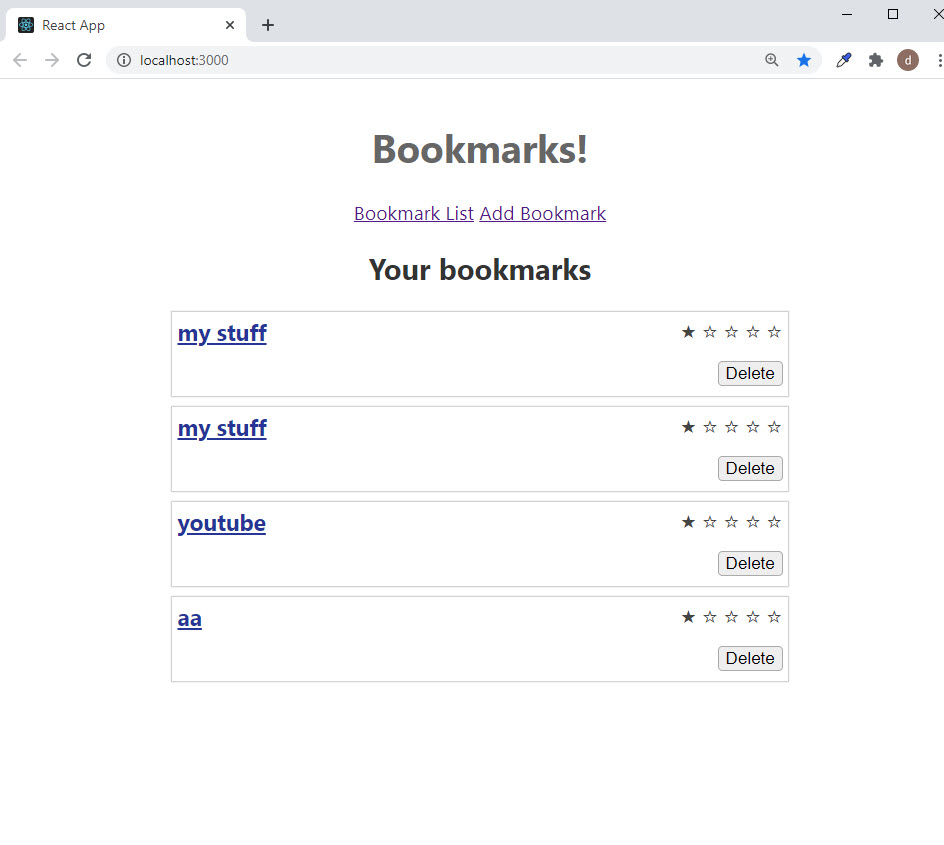
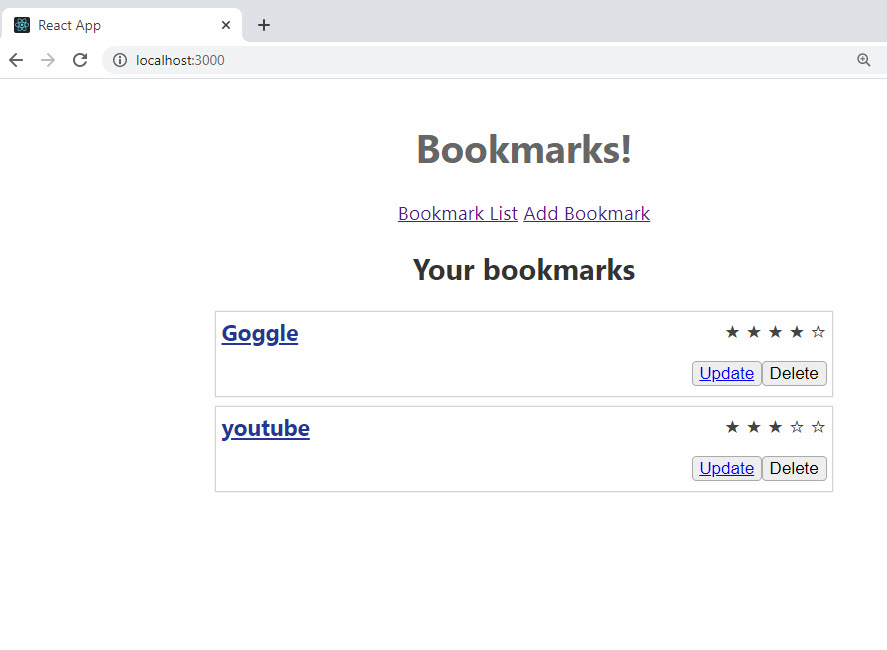
added edit bookmark  page with /api/edit endpoints

diff --git a/src/EditBookmark/EditBookmark.js b/src/EditBookmark/EditBookmark.js
@@ -1,0 +1,210 @@
+import React, { Component } from 'react';
+import PropTypes from 'prop-types';
+import BookmarksContext from '../BookmarksContext';
+import config from '../config'
+import './EditBookmark.css';
+
+const Required = () => (
+  <span className='EditBookmark__required'>*</span>
+)
+
+class EditBookmark extends Component {
+  static propTypes = {
+    match: PropTypes.shape({
+      params: PropTypes.object,
+    }),
+    history: PropTypes.shape({
+      push: PropTypes.func,
+    }).isRequired,
+  };
+
+  static contextType = BookmarksContext;
+
+  state = {
+    error: null,
+    id: '',
+    title: '',
+    url: '',
+    description: '',
+    rating: 1,
+  };
+
+  componentDidMount() {
+    const { bookmarkId } = this.props.match.params
+    fetch(config.API_ENDPOINT + `/${bookmarkId}`, {
+      method: 'GET',
+      headers: {
+        'authorization': `Bearer ${config.API_KEY}`
+      }
+    })
+      .then(res => {
+        if (!res.ok)
+          return res.json().then(error => Promise.reject(error))
+
+        return res.json()
+      })
+      .then(responseData => {
+        this.setState({
+          id: responseData.id,
+          title: responseData.title,
+          url: responseData.url,
+          description: responseData.description,
+          rating: responseData.rating,
+        })
+      })
+      .catch(error => {
+        console.error(error)
+        this.setState({ error })
+      })
+  }
+
+  handleChangeTitle = e => {
+    this.setState({ title: e.target.value })
+  };
+
+  handleChangeUrl = e => {
+    this.setState({ url: e.target.value })
+  };
+
+  handleChangeDescription = e => {
+    this.setState({ description: e.target.value })
+  };
+
+  handleChangeRating = e => {
+    this.setState({ rating: e.target.value })
+  };
+
+  handleSubmit = e => {
+    e.preventDefault()
+    const { bookmarkId } = this.props.match.params
+    const { id, title, url, description, rating } = this.state
+    const newBookmark = { id, title, url, description, rating }
+    fetch(config.API_ENDPOINT + `/${bookmarkId}`, {
+      method: 'PATCH',
+      body: JSON.stringify(newBookmark),
+      headers: {
+        'content-type': 'application/json',
+        'authorization': `Bearer ${config.API_KEY}`
+      },
+    })
+      .then(res => {
+        if (!res.ok)
+          return res.json().then(error => Promise.reject(error))
+      })
+      .then(() => {
+        this.resetFields(newBookmark)
+        this.context.updateBookmark(newBookmark)
+        this.props.history.push('/')
+      })
+      .catch(error => {
+        console.error(error)
+        this.setState({ error })
+      })
+  }
+
+  resetFields = (newFields) => {
+    this.setState({
+      id: newFields.id || '',
+      title: newFields.title || '',
+      url: newFields.url || '',
+      description: newFields.description || '',
+      rating: newFields.rating || '',
+    })
+  }
+
+  handleClickCancel = () => {
+    this.props.history.push('/')
+  };
+
+  render() {
+    const { error, title, url, description, rating } = this.state
+    return (
+      <section className='EditBookmark'>
+        <h2>Edit bookmark</h2>
+        <form
+          className='EditBookmark__form'
+          onSubmit={this.handleSubmit}
+        >
+          <div className='EditBookmark__error' role='alert'>
+            {error && <p>{error.message}</p>}
+          </div>
+          <input
+            type='hidden'
+            name='id'
+          />
+          <div>
+            <label htmlFor='title'>
+              Title
+              {' '}
+              <Required />
+            </label>
+            <input
+              type='text'
+              name='title'
+              id='title'
+              placeholder='Great website!'
+              required
+              value={title}
+              onChange={this.handleChangeTitle}
+            />
+          </div>
+          <div>
+            <label htmlFor='url'>
+              URL
+              {' '}
+              <Required />
+            </label>
+            <input
+              type='url'
+              name='url'
+              id='url'
+              placeholder='https://www.great-website.com/'
+              required
+              value={url}
+              onChange={this.handleChangeUrl}
+            />
+          </div>
+          <div>
+            <label htmlFor='description'>
+              Description
+            </label>
+            <textarea
+              name='description'
+              id='description'
+              value={description}
+              onChange={this.handleChangeDescription}
+            />
+          </div>
+          <div>
+            <label htmlFor='rating'>
+              Rating
+              {' '}
+              <Required />
+            </label>
+            <input
+              type='number'
+              name='rating'
+              id='rating'
+              min='1'
+              max='5'
+              required
+              value={rating}
+              onChange={this.handleChangeRating}
+            />
+          </div>
+          <div className='EditBookmark__buttons'>
+            <button type='button' onClick={this.handleClickCancel}>
+              Cancel
+            </button>
+            {' '}
+            <button type='submit'>
+              Save
+            </button>
+          </div>
+        </form>
+      </section>
+    );
+  }
+}
+
+export default EditBookmark;

diff --git a/src/App.js b/src/App.js
@@ -1,11 +1,12 @@
 import React, { Component } from 'react';
 import { Route } from 'react-router-dom';
 import AddBookmark from './AddBookmark/AddBookmark';
-import './App.css';
+import EditBookmark from './EditBookmark/EditBookmark';
 import BookmarkList from './BookmarkList/BookmarkList';
 import BookmarksContext from './BookmarksContext';
-import config from './config';
 import Nav from './Nav/Nav';
+import config from './config';
+import './App.css';
 
 class App extends Component {
   state = {
@@ -30,12 +31,10 @@ class App extends Component {
     const newBookmarks = this.state.bookmarks.filter(bm =>
       bm.id !== bookmarkId
     )
-
     this.setState({
       bookmarks: newBookmarks
     })
   }
-
 
   componentDidMount() {
     fetch(config.API_ENDPOINT, {
@@ -47,15 +46,16 @@ class App extends Component {
     })
       .then(res => {
         if (!res.ok)
-          throw new Error(res.status)
+        {
+          return res.json().then(error => Promise.reject(error))
+        }
         return res.json()
       })
-      // bookmark response from api
-      // .then(this.setBookmarks)
-      .then(res => {
-        this.setBookmarks(res)
+      .then(this.setBookmarks)
+      .catch(error => {
+        console.error(error)
+        this.setState({ error })
       })
-      .catch(error => this.setState({ error }))
   }
 
   updateBookmark = updatedBookmark => {
@@ -66,50 +66,37 @@ class App extends Component {
     })
   }
 
-
   render() {
     const contextValue = {
       bookmarks: this.state.bookmarks,
       addBookmark: this.addBookmark,
       deleteBookmark: this.deleteBookmark,
+      updateBookmark: this.updateBookmark,
     }
-
     return (
       <main className='App'>
         <h1>Bookmarks!</h1>
         <BookmarksContext.Provider value={contextValue}>
           <Nav />
           <div className='content' aria-live='polite'>
-            {/* for /add-bookmark */}
-            <Route
-              path='/add-bookmark'
-              component={AddBookmark}
-            // onClickCancel={() => {/* what here? */ }}
-            />
-
-            {/* for /update-bookmark */}
-
-            {/* 
-            <Route
-              path='/update-bookmark'
-              component={AddBookmark}
-            />
- */}
-
-            {/* for / */}
             <Route
               exact
               path='/'
               component={BookmarkList}
             />
+            <Route
+              path='/add-bookmark'
+              component={AddBookmark}
+            />
+            <Route
+              path='/edit/:bookmarkId'
+              component={EditBookmark}
+            />
           </div>
         </BookmarksContext.Provider>
-      </main >
+      </main>
     );
   }
 }
 
 export default App;
-
-{/* <BookmarkList bookmarks={[{ a: 2, b: 4 }, { a: 3, b: 4 }]} /> */ }
-{/* <Rating value={9} /> */ }

diff --git a/src/BookmarkItem/BookmarkItem.js b/src/BookmarkItem/BookmarkItem.js
@@ -53,7 +53,17 @@ export default function BookmarkItem(props) {
           <p className='BookmarkItem__description'>
             {props.description}
           </p>
+
+
           <div className='BookmarkItem__buttons'>
+
+            <button>
+              <Link to={`/edit/${props.id}`}>
+                Update
+            </Link>
+            </button>
+
+
             <button
               className='BookmarkItem__description'
               // onClick={() => props.onClickDelete(props.id)}
@@ -67,9 +77,10 @@ export default function BookmarkItem(props) {
               Delete
         </button>
           </div>
-        </li>
-      )}
-    </BookmarksContext.Consumer>
+        </li >
+      )
+      }
+    </BookmarksContext.Consumer >
   )
 }
 

diff --git a/src/EditBookmark/EditBookmark.css b/src/EditBookmark/EditBookmark.css
@@ -1,0 +1,32 @@
+.EditBookmark__form {
+  text-align: left;
+}
+
+.EditBookmark__form input,
+.EditBookmark__form textarea {
+  display: block;
+  text-align: left;
+  margin-top: 5px;
+  margin-bottom: 15px;
+  /* minus side padding and border */
+  width: calc(100% - 16px - 2px);
+  padding: 5px 8px;
+  border: 1px solid #ddd;
+}
+
+.EditBookmark__form label {
+  margin-top: 10px;
+}
+
+.EditBookmark__buttons {
+  text-align: center;
+}
+
+.EditBookmark__required {
+  color: #a51414;
+}
+
+.EditBookmark__error p {
+  color: #a51414;
+  margin-bottom: 5px;
+}

diff --git a/src/BookmarksContext.js b/src/BookmarksContext.js
@@ -4,6 +4,7 @@ const BookmarksContext = React.createContext({
   bookmarks: [],
   addBookmark: () => { },
   deleteBookmark: () => { },
+  updateBookmark: () => { },
 })
 
 export default BookmarksContext
